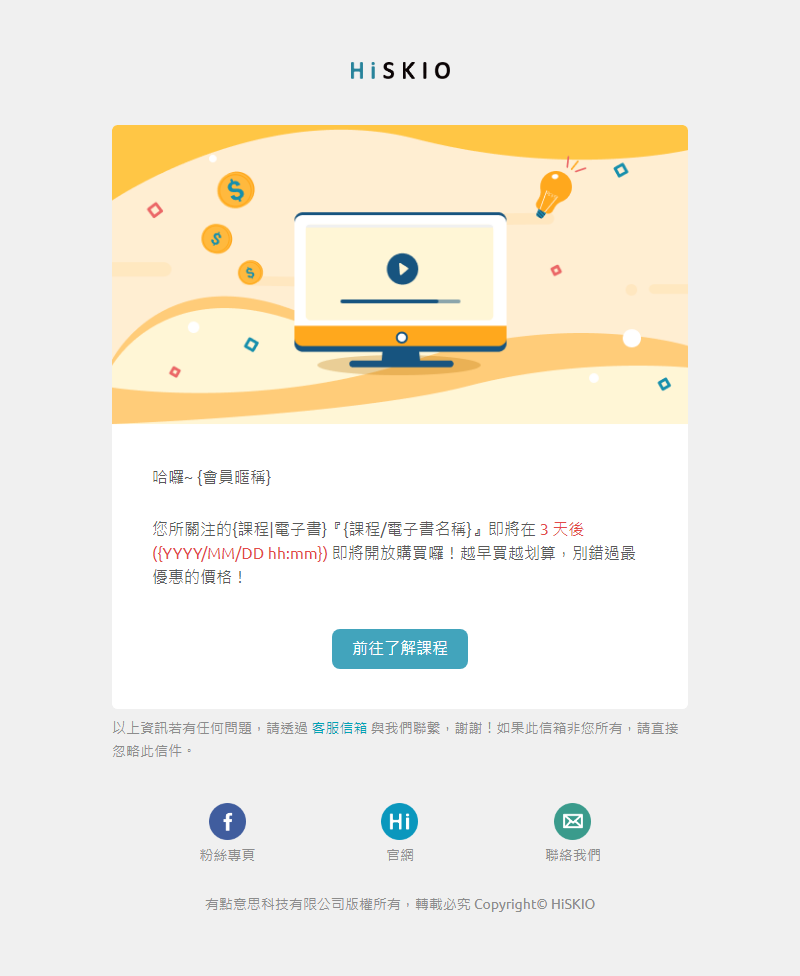
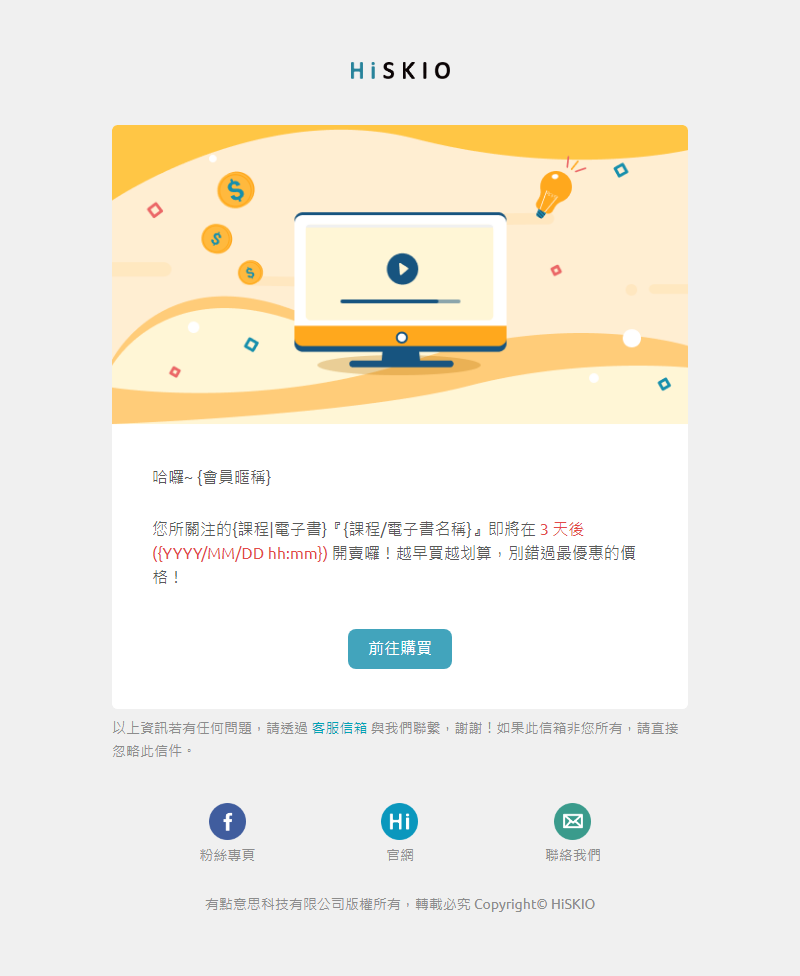
feat: HIS-541: 調整即將開賣信件的文案

Changed region(s): [[0.4062, 0.5533, 0.8125, 0.584], [0.4062, 0.6455, 0.5938, 0.707], [0.1875, 0.584, 0.2812, 0.6148]]

diff --git a/output/emails/R17課程電子書即將開放購買/index-en.html b/output/emails/R17課程電子書即將開放購買/index-en.html
@@ -205,7 +205,7 @@
                                                             </tr>
                                                             <tr>
                                                                 <td align="left" style="font-size:0px;padding:0px;padding-bottom:40px;word-break:break-word;">
-                                                                    <div style="font-family:Ubuntu, Helvetica, Arial, sans-serif;font-size:16px;line-height:24px;text-align:left;color:#595959;">您所關注的{課程|電子書}『{課程/電子書名稱}』即將在 <span style="color: #E34A4A;">3 天後 ({YYYY/MM/DD hh:mm})</span> 即將開放購買囉！越早買越划算，別錯過最優惠的價格！</div>
+                                                                    <div style="font-family:Ubuntu, Helvetica, Arial, sans-serif;font-size:16px;line-height:24px;text-align:left;color:#595959;">您所關注的{課程|電子書}『{課程/電子書名稱}』即將在 <span style="color: #E34A4A;">3 天後 ({YYYY/MM/DD hh:mm})</span> 開賣囉！越早買越划算，別錯過最優惠的價格！</div>
                                                                 </td>
                                                             </tr>
                                                         </tbody>
@@ -216,7 +216,7 @@
                                                     <table border="0" cellpadding="0" cellspacing="0" role="presentation" style="vertical-align:top;" width="100%">
                                                         <tbody>
                                                             <div style="text-align: center;">
-                                                                <a href="https://hiskio.com/courses" style="display: inline-block; font-size: 16px; line-height: 24px; background-color: #42A4BC; color: #fff; border-radius: 8px; padding: 8px 20px; text-decoration: none;">前往了解課程</a>
+                                                                <a href="https://hiskio.com/courses" style="display: inline-block; font-size: 16px; line-height: 24px; background-color: #42A4BC; color: #fff; border-radius: 8px; padding: 8px 20px; text-decoration: none;">前往購買</a>
                                                             </div>
                                                         </tbody>
                                                     </table>

diff --git a/output/emails/R17課程電子書即將開放購買/index-zh-CN.html b/output/emails/R17課程電子書即將開放購買/index-zh-CN.html
@@ -205,7 +205,7 @@
                                                             </tr>
                                                             <tr>
                                                                 <td align="left" style="font-size:0px;padding:0px;padding-bottom:40px;word-break:break-word;">
-                                                                    <div style="font-family:Ubuntu, Helvetica, Arial, sans-serif;font-size:16px;line-height:24px;text-align:left;color:#595959;">您所關注的{課程|電子書}『{課程/電子書名稱}』即將在 <span style="color: #E34A4A;">3 天後 ({YYYY/MM/DD hh:mm})</span> 即將開放購買囉！越早買越划算，別錯過最優惠的價格！</div>
+                                                                    <div style="font-family:Ubuntu, Helvetica, Arial, sans-serif;font-size:16px;line-height:24px;text-align:left;color:#595959;">您所關注的{課程|電子書}『{課程/電子書名稱}』即將在 <span style="color: #E34A4A;">3 天後 ({YYYY/MM/DD hh:mm})</span> 開賣囉！越早買越划算，別錯過最優惠的價格！</div>
                                                                 </td>
                                                             </tr>
                                                         </tbody>
@@ -216,7 +216,7 @@
                                                     <table border="0" cellpadding="0" cellspacing="0" role="presentation" style="vertical-align:top;" width="100%">
                                                         <tbody>
                                                             <div style="text-align: center;">
-                                                                <a href="https://hiskio.com/courses" style="display: inline-block; font-size: 16px; line-height: 24px; background-color: #42A4BC; color: #fff; border-radius: 8px; padding: 8px 20px; text-decoration: none;">前往了解課程</a>
+                                                                <a href="https://hiskio.com/courses" style="display: inline-block; font-size: 16px; line-height: 24px; background-color: #42A4BC; color: #fff; border-radius: 8px; padding: 8px 20px; text-decoration: none;">前往購買</a>
                                                             </div>
                                                         </tbody>
                                                     </table>

diff --git a/output/emails/R17課程電子書即將開放購買/index-zh-TW.html b/output/emails/R17課程電子書即將開放購買/index-zh-TW.html
@@ -205,7 +205,7 @@
                                                             </tr>
                                                             <tr>
                                                                 <td align="left" style="font-size:0px;padding:0px;padding-bottom:40px;word-break:break-word;">
-                                                                    <div style="font-family:Ubuntu, Helvetica, Arial, sans-serif;font-size:16px;line-height:24px;text-align:left;color:#595959;">您所關注的{課程|電子書}『{課程/電子書名稱}』即將在 <span style="color: #E34A4A;">3 天後 ({YYYY/MM/DD hh:mm})</span> 即將開放購買囉！越早買越划算，別錯過最優惠的價格！</div>
+                                                                    <div style="font-family:Ubuntu, Helvetica, Arial, sans-serif;font-size:16px;line-height:24px;text-align:left;color:#595959;">您所關注的{課程|電子書}『{課程/電子書名稱}』即將在 <span style="color: #E34A4A;">3 天後 ({YYYY/MM/DD hh:mm})</span> 開賣囉！越早買越划算，別錯過最優惠的價格！</div>
                                                                 </td>
                                                             </tr>
                                                         </tbody>
@@ -216,7 +216,7 @@
                                                     <table border="0" cellpadding="0" cellspacing="0" role="presentation" style="vertical-align:top;" width="100%">
                                                         <tbody>
                                                             <div style="text-align: center;">
-                                                                <a href="https://hiskio.com/courses" style="display: inline-block; font-size: 16px; line-height: 24px; background-color: #42A4BC; color: #fff; border-radius: 8px; padding: 8px 20px; text-decoration: none;">前往了解課程</a>
+                                                                <a href="https://hiskio.com/courses" style="display: inline-block; font-size: 16px; line-height: 24px; background-color: #42A4BC; color: #fff; border-radius: 8px; padding: 8px 20px; text-decoration: none;">前往購買</a>
                                                             </div>
                                                         </tbody>
                                                     </table>
